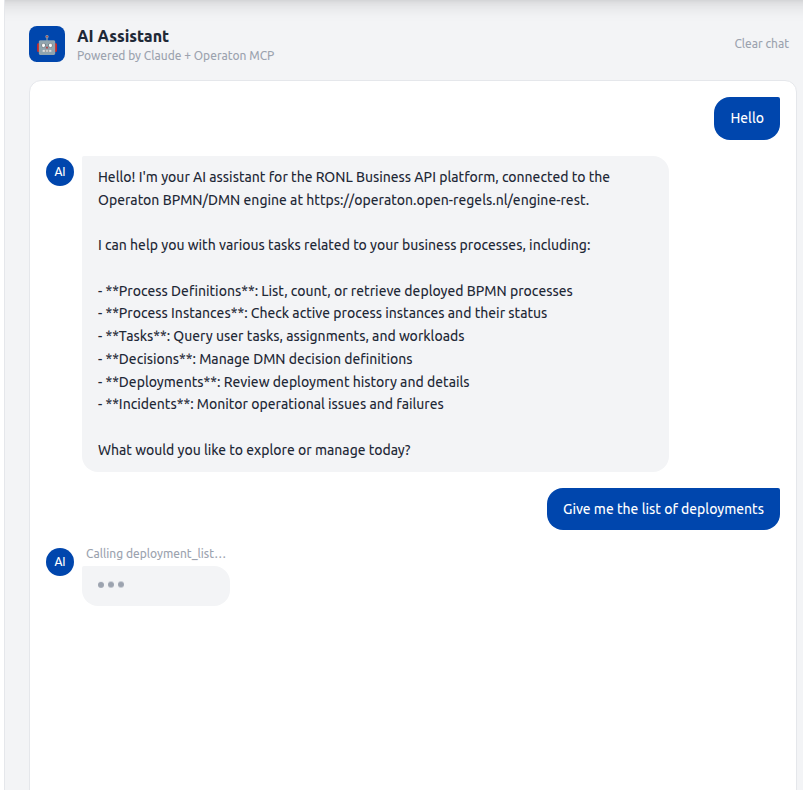
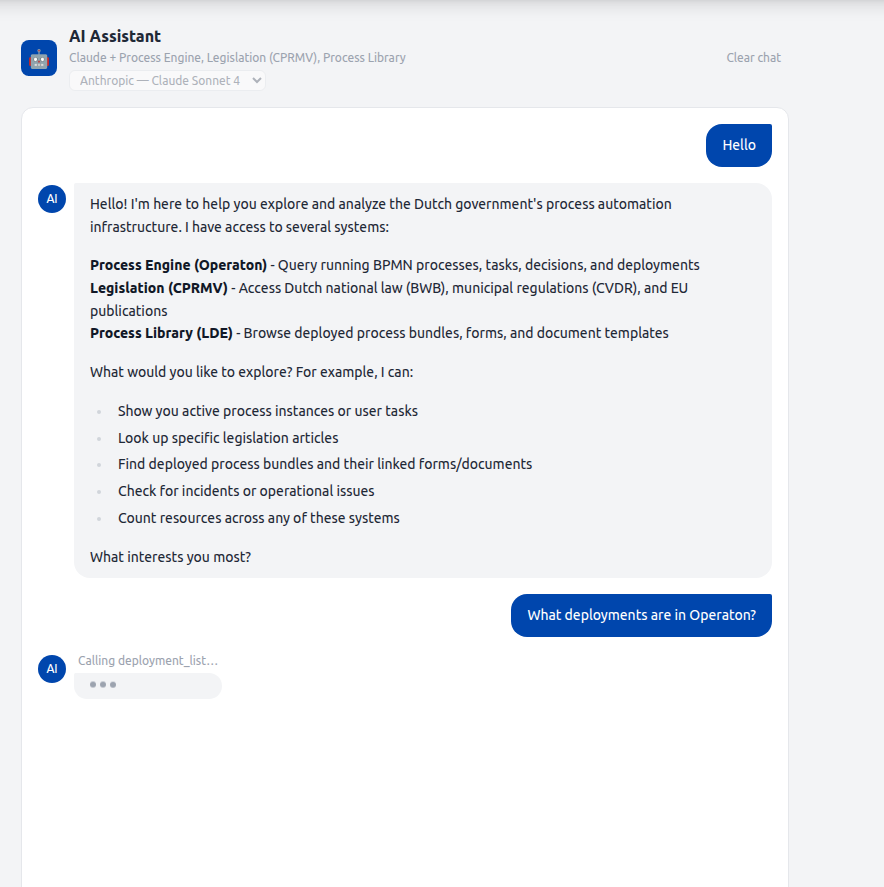
chore: enhanced & renamed ai assistant content

diff --git a/docs/en/ronl-business-api/developer/mcp-ai-assistant.md b/docs/en/ronl-business-api/developer/mcp-ai-assistant.md
@@ -5,6 +5,11 @@ The AI Assistant is a streaming chat interface embedded in the Gereedschap tab o
 Sources and models are selected per session. See [LLM Provider Architecture](llm-provider-architecture.md) for how providers and models are registered and extended.
 
 <figure markdown style="width:100%; margin:0;">
+  ![Screenshot: LLM Source selector dropdown'](../../../assets/screenshots/llm-source-selector.png)
+  <figcaption>LLM source selector dropdown.</figcaption>
+</figure>
+
+<figure markdown style="width:100%; margin:0;">
   ![Screenshot: AI Assistant mid-response: assistant bubble filling with streamed tokens while a status line above the typing dots reads 'Calling deployment_list…'](../../../assets/screenshots/mcp-client-ai-assistant-streaming.png)
   <figcaption>The assistant bubble updates token-by-token. Between tool rounds, the active tool name appears above the typing indicator.</figcaption>
 </figure>
@@ -38,18 +43,20 @@ The AI assistant connects to one or more **MCP providers** registered in `McpReg
   <figcaption>MCP chat source selector.</figcaption>
 </figure>
 
-Two providers are registered in ACC:
+Four providers are registered. Each is independently enabled via its env var and appears in `GET /v1/mcp/sources` only when connected.
 
-| Source ID | Display name | Tools | Description |
-|---|---|---|---|
-| `operaton` | Process Engine | 16 | Live Operaton data: process instances, tasks, deployments, decisions, incidents |
-| `triplydb` | Knowledge Graph | 11 | RONL knowledge graph via SPARQL: DMN metadata, public services, organisations, rules, concepts |
+| Source ID  | Display name        | Transport | Tools | Description |
+|------------|---------------------|-----------|-------|-------------|
+| `operaton` | Process Engine      | stdio     | 16    | Live Operaton data: process instances, tasks, deployments, decisions, incidents |
+| `triplydb` | Knowledge Graph     | stdio     | 11    | RONL knowledge graph via SPARQL: DMN metadata, public services, organisations, rules, concepts |
+| `cprmv`    | Legislation (CPRMV) | HTTP      | 3     | Dutch and EU legislation: BWB national law, CVDR municipal regulations, EU CELLAR |
+| `lde`      | Process Library     | stdio     | 6     | LDE asset store: deployed BPMN bundles, form schemas, document templates |
 
 The `sources` array in the `POST /v1/mcp/chat` request body controls which providers are active for a given turn. An empty array activates all connected providers.
 
 ### Process Engine tools (`operaton`)
 
-The `OperatonMcpProvider` allows the following 16 tools from `operaton-mcp`:
+The `OperatonMcpProvider` spawns the `operaton-mcp` npm package as a stdio child process and allows the following 16 tools:
 
 `processDefinition_list`, `processDefinition_count`, `processDefinition_getByKey`, `processInstance_list`, `processInstance_count`, `processInstance_get`, `task_list`, `task_count`, `task_getById`, `decision_list`, `decision_getByKey`, `deployment_list`, `deployment_count`, `deployment_getById`, `incident_list`, `incident_count`
 
@@ -61,10 +68,39 @@ The `TriplyDbMcpProvider` spawns the bundled `src/mcp-servers/triplydb/index.ts`
 
 `dmn_list`, `dmn_get`, `dmn_chain_links`, `dmn_enhanced_chain_links`, `dmn_semantic_equivalences`, `organization_list`, `service_list`, `rule_list`, `concept_list`, `service_rules_metadata`, `sparql_query`
 
-The TriplyDB server requires `TRIPLYDB_ENDPOINT` and `TRIPLYDB_TOKEN` env vars. If the connection fails at startup, the provider is silently unavailable and does not appear in the `GET /v1/mcp/sources` response as connected.
+Requires `TRIPLYDB_ENDPOINT` and `TRIPLYDB_TOKEN`. If the connection fails at startup the provider is silently unavailable.
 
 !!! note "Knowledge graph vs live engine"
     The TriplyDB knowledge graph contains **documented metadata** about decision models, including their intended Operaton endpoints. It is not live deployment data. To verify what is actually running in Operaton, the Process Engine source must also be selected. The model is prompted to note this distinction in its responses.
+
+### Legislation tools (`cprmv`)
+
+The `CprmvMcpProvider` connects to the CPRMV HTTP MCP server at `acc.cprmv.open-regels.nl/mcp` using `StreamableHTTPClientTransport` — it is a remote HTTP endpoint, not a local subprocess. It exposes 3 tools:
+
+`rules_rules__rule_id_path__get` — retrieves a specific rule or rule set from BWB (national law), CVDR (municipal regulations), or EU CELLAR (European publications); supports path navigation to individual articles
+
+`ref_ref__referencemethod___reference__get` — resolves a rule reference by Juriconnect method (jci 1.3 / 1.31); supports `artikel`, `hoofdstuk`, `paragraaf`, `onderdeel`, `lid`
+
+`celex_cellar_by_celex__celexid___language___format__get` — finds EU CELLAR publications by CELEX id; returns ruleset IDs usable with the rules tool
+
+Requires `CPRMV_MCP_ENABLED=true`. `CPRMV_URL` defaults to `https://acc.cprmv.open-regels.nl/mcp`.
+
+### Process Library tools (`lde`)
+
+The `LdeMcpProvider` spawns the bundled `src/mcp-servers/lde/index.ts` and connects directly to the LDE PostgreSQL database (`lde_assets`). It exposes 6 tools:
+
+`bundle_list` — all deployed BPMN bundles with forms, documents, subprocesses, and linked DMN keys
+
+`bundle_get` — single bundle by `bpmnProcessId`
+
+`form_list` / `form_get` — form schema listing and full Camunda Form JSON schema by id (matches `camunda:formRef` in BPMN)
+
+`document_list` / `document_get` — document template listing and full template including zones and bindings (matches `ronl:documentRef` in BPMN)
+
+Requires `LDE_MCP_ENABLED=true` and `LDE_DATABASE_URL` pointing at the LDE `lde_assets` database.
+
+!!! note "LDE vs Operaton"
+    The Process Library reflects the LDE asset store — what has been authored and deployed from the LDE. The Process Engine source reflects what is currently live in Operaton. Combining both gives the most complete picture.
 
 ---
 
@@ -144,7 +180,7 @@ res.setHeader('X-Accel-Buffering', 'no'); // disables Caddy / nginx proxy buffer
 res.flushHeaders();
 ```
 
-A single `AbortController` covers both the 240-second hard timeout and client-disconnect cleanup (`req.on('close', ...)`). A `send()` helper guards `res.writableEnded` before each write so a disconnecting client cannot cause a write-after-end error.
+A single `AbortController` covers both the 480-second hard timeout and client-disconnect cleanup (`req.on('close', ...)`). A `send()` helper guards `res.writableEnded` before each write so a disconnecting client cannot cause a write-after-end error.
 
 **Audit log exclusion.** `POST /v1/mcp/chat` is excluded from `audit.middleware.ts` alongside `GET /v1/admin/audit`. Chat turns are high-frequency and do not require an audit trail.
 
@@ -236,21 +272,41 @@ for await (const event of businessApi.mcp.chatStream(message, history, sources, 
 ---
 
 ## Local development
+
 ```bash
 # packages/backend/.env
+
 MCP_ENABLED=true
 ANTHROPIC_API_KEY=sk-ant-...
+
+# Process Engine (required)
 OPERATON_BASE_URL=https://operaton.open-regels.nl/engine-rest
 OPERATON_USERNAME=demo
 OPERATON_PASSWORD=<password>
+
+# Knowledge Graph (optional)
+TRIPLYDB_MCP_ENABLED=true
+TRIPLYDB_ENDPOINT=https://api.open-regels.triply.cc/datasets/stevengort/RONL/services/RONL/sparql
+TRIPLYDB_TOKEN=
+
+# Legislation (optional)
+CPRMV_MCP_ENABLED=true
+CPRMV_URL=https://acc.cprmv.open-regels.nl/mcp
+
+# Process Library (optional)
+LDE_MCP_ENABLED=true
+LDE_DATABASE_URL=postgresql://lde_user:lde_password@localhost:5432/lde_assets
 ```
 
-Start the backend as normal. The MCP child process is spawned automatically at startup. Check the logs for:
+Start the backend as normal. All enabled providers connect at startup. Check the logs for one line per provider:
 ```
-INFO  mcp-client  MCP client connected  { operatonBaseUrl: "https://..." }
+INFO  operaton-provider  Operaton MCP provider connected
+INFO  triplydb-provider  TriplyDB MCP provider connected
+INFO  cprmv-provider     CPRMV MCP provider connected
+INFO  lde-provider       LDE MCP provider connected
 ```
 
-If the child process fails to connect within 30 seconds, the backend continues without MCP and the `/v1/mcp/chat` route returns `503 MCP_NOT_CONNECTED`.
+If a provider fails to connect within 30 seconds the backend continues without it. Failed providers do not appear as connected in `GET /v1/mcp/sources`. The `/v1/mcp/chat` route returns `503 MCP_NOT_CONNECTED` only when **all** selected providers are unavailable.
 
 ---
 
@@ -263,7 +319,13 @@ az webapp config appsettings set \
     MCP_ENABLED=true \
     ANTHROPIC_API_KEY="sk-ant-..." \
     OPERATON_USERNAME="<user>" \
-    OPERATON_PASSWORD="<pass>"
+    OPERATON_PASSWORD="<pass>" \
+    TRIPLYDB_MCP_ENABLED=true \
+    TRIPLYDB_ENDPOINT="https://api.open-regels.triply.cc/datasets/stevengort/RONL/services/RONL/sparql" \
+    TRIPLYDB_TOKEN="" \
+    CPRMV_MCP_ENABLED=true \
+    LDE_MCP_ENABLED=true \
+    LDE_DATABASE_URL="postgresql://...lde_assets?sslmode=verify-full"
 
 # Ensure Node 22 LTS runtime
 az webapp config set \
@@ -272,17 +334,21 @@ az webapp config set \
   --linux-fx-version "NODE|22-lts"
 ```
 
-After deployment, verify the MCP connection in the application logs:
+After deployment, verify all providers in the application logs:
 ```bash
 az webapp log tail --name ronl-business-api-acc --resource-group rg-ronl-acc
-# Look for: mcp-client MCP client connected
+# Look for one connected line per enabled provider:
+# operaton-provider  Operaton MCP provider connected
+# triplydb-provider  TriplyDB MCP provider connected
+# cprmv-provider     CPRMV MCP provider connected
+# lde-provider       LDE MCP provider connected
 ```
 
 ---
 
 ## Troubleshooting
 
-**`503 MCP_NOT_CONNECTED`** — The MCP child process did not connect within 30 seconds. Check that `MCP_ENABLED=true` is set, that `OPERATON_BASE_URL`, `OPERATON_USERNAME`, and `OPERATON_PASSWORD` are correct, that the App Service runtime is `NODE|22-lts` (the child process will silently fail on Node 20), and that `operaton-mcp` is present in `node_modules`.
+**`503 MCP_NOT_CONNECTED`** — All providers selected for the request are unavailable. Individual provider failures are non-fatal — the backend continues without them. Check `GET /v1/mcp/sources` to see which providers are connected. For the Process Engine specifically: verify `MCP_ENABLED=true`, `OPERATON_BASE_URL`, `OPERATON_USERNAME`, and `OPERATON_PASSWORD` are correct, and that the App Service runtime is `NODE|22-lts` (the child process will silently fail on Node 20). For `LdeMcpProvider`: verify `LDE_DATABASE_URL` is reachable and uses `sslmode=verify-full` (not `sslmode=require`) to avoid a pg-connection-string SSL warning.
 
 **`400 prompt is too long`** — A multi-round query accumulated too many tokens. This is handled automatically — each tool result is truncated to 12,000 characters. If it still occurs, the query is driving an unusual number of rounds with very large results; try a more specific question.
 

diff --git a/docs/en/ronl-business-api/developer/llm-provider-architecture.md b/docs/en/ronl-business-api/developer/llm-provider-architecture.md
@@ -1,0 +1,120 @@
+# LLM Provider Architecture
+
+The AI Assistant decouples the agentic loop from any specific LLM SDK through a `LlmProvider` interface and a `LlmRegistry` singleton. Adding a new LLM (Mistral, Azure OpenAI, Google Gemini, etc.) requires only implementing the interface and registering the provider at startup — no changes to the chat service, routes, or frontend are needed.
+
+See [MCP AI Assistant](mcp-ai-assistant.md) for the overall architecture and MCP source registry.
+
+---
+
+## Interface
+
+`packages/backend/src/services/llm/LlmProvider.ts` defines the contract every provider must satisfy.
+```typescript
+export interface LlmProvider {
+  readonly meta: LlmProviderMeta;
+  isAvailable(): boolean;
+  streamTurn(
+    params: LlmStreamParams,
+    onDelta: (text: string) => void,
+    signal?: AbortSignal
+  ): Promise<LlmTurnResult>;
+}
+```
+
+`isAvailable()` returns `false` when the provider's API key is not configured. Unavailable providers are registered but their models are excluded from `GET /v1/mcp/models`.
+
+`streamTurn()` receives a provider-agnostic `AgentMessage[]` history, a system prompt, and tool definitions. It calls `onDelta` for each text chunk and returns an `LlmTurnResult` containing the full response text, any tool use blocks, and the stop reason. The chat service (`mcpChat.service.ts`) never imports any SDK directly.
+
+### Message types
+```typescript
+export type AgentMessage =
+  | { role: 'user';              content: string }
+  | { role: 'assistant';         content: string }
+  | { role: 'assistant_tool_use'; toolUses: AgentToolUse[] }
+  | { role: 'tool_results';      results: AgentToolResult[] };
+```
+
+Each provider's `streamTurn()` implementation converts these to its SDK's native format. `toAnthropicMessage()` and `toOpenAIMessage()` in the respective provider files handle the mapping.
+
+---
+
+## Registry
+
+`LlmRegistry` maps model IDs to their owning provider.
+```typescript
+llmRegistry.register(new AnthropicLlmProvider());
+llmRegistry.register(new OpenAILlmProvider());
+```
+
+`llmRegistry.getProvider(modelId)` is called by `runChatStream()` to resolve which provider handles the request. `llmRegistry.getAvailableModels()` returns all models from connected providers, used by `GET /v1/mcp/models`.
+
+---
+
+## Registered providers
+
+### `AnthropicLlmProvider`
+
+Uses `@anthropic-ai/sdk`. Enabled when `ANTHROPIC_API_KEY` is set.
+
+| Model ID                    | Display name         |
+|-----------------------------|----------------------|
+| `claude-sonnet-4-20250514`  | Claude Sonnet 4      |
+| `claude-opus-4-20250514`    | Claude Opus 4        |
+| `claude-haiku-4-5-20251001` | Claude Haiku 4.5     |
+
+### `OpenAILlmProvider`
+
+Uses `openai`. Enabled when `OPENAI_API_KEY` is set.
+
+| Model ID      | Display name  |
+|---------------|---------------|
+| `gpt-4o`      | GPT-4o        |
+| `gpt-4o-mini` | GPT-4o Mini   |
+
+---
+
+## Response delivery: streaming vs. buffered
+
+`onDelta` is called per token as the stream arrives. This produces a visible build-up effect in the assistant bubble — the user sees progress during long multi-tool queries rather than a blank wait followed by a sudden full response.
+
+The pre-registry behavior (one emission of the full text after `stream.finalMessage()`) can be restored in `AnthropicLlmProvider.streamTurn()` by buffering and emitting once:
+```typescript
+// Buffered (all-at-once) variant
+const response = await stream.finalMessage();
+const text = response.content
+  .filter((b): b is Anthropic.TextBlock => b.type === 'text')
+  .map((b) => b.text)
+  .join('');
+if (text) onDelta(text);
+```
+
+The streaming variant is the current default. Which is preferable is subject to user feedback.
+
+---
+
+## Frontend — model selector
+
+`GET /v1/mcp/models` returns all available models with their provider:
+```typescript
+export interface LlmModelEntry {
+  id: string;
+  displayName: string;
+  providerId: string;
+  providerDisplayName: string;
+}
+```
+
+`McpChatSection` fetches this on mount and renders a `<select>` below the source toggles when more than one model is available. The selected `modelId` is sent on every `POST /v1/mcp/chat` request. When only one model is available the selector is hidden.
+
+---
+
+## Adding a new provider
+
+1. Create `packages/backend/src/services/llm/YourLlmProvider.ts` implementing `LlmProvider`. Declare `meta.models` with the model IDs you want to expose. Implement `toYourMessage()` to convert `AgentMessage` to the SDK's native format and handle the `assistant_tool_use` / `tool_results` roles.
+2. Add the API key to `Config` in `config.ts` and to `.env.example`.
+3. Register in `packages/backend/src/index.ts`:
+```typescript
+   llmRegistry.register(new YourLlmProvider());
+```
+
+The new provider's models appear in `GET /v1/mcp/models` immediately after deployment, as long as `isAvailable()` returns `true`.

diff --git a/docs/nl/ronl-business-api/developer/llm-provider-architecture.md b/docs/nl/ronl-business-api/developer/llm-provider-architecture.md
@@ -1,0 +1,37 @@
+# LLM Provider Architecture
+
+!!! info "Documentatie in ontwikkeling"
+    De Nederlandse vertaling van deze pagina is nog niet beschikbaar.
+    Raadpleeg de <a href="/ronl-business-api/developer/llm-provider-architecture/">Engelse versie</a> voor de huidige inhoud
+
+---
+
+**Status:** Concept  
+**Engelstalige bron:** `ronl-business-api/developer/llm-provider-architecture.md`
+
+---
+
+## Interface
+
+### Message types
+
+---
+
+## Registry
+
+---
+
+## Registered providers
+
+---
+
+## Response delivery: streaming vs. buffered
+
+---
+
+## Frontend — model selector
+
+---
+
+## Adding a new provider
+
